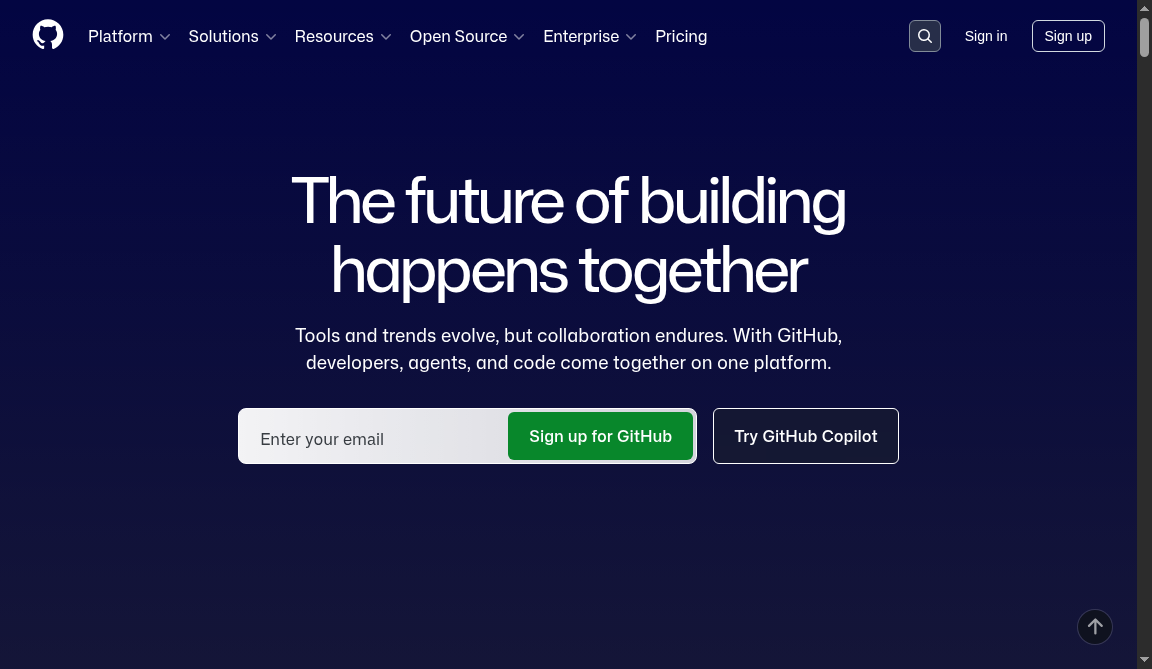
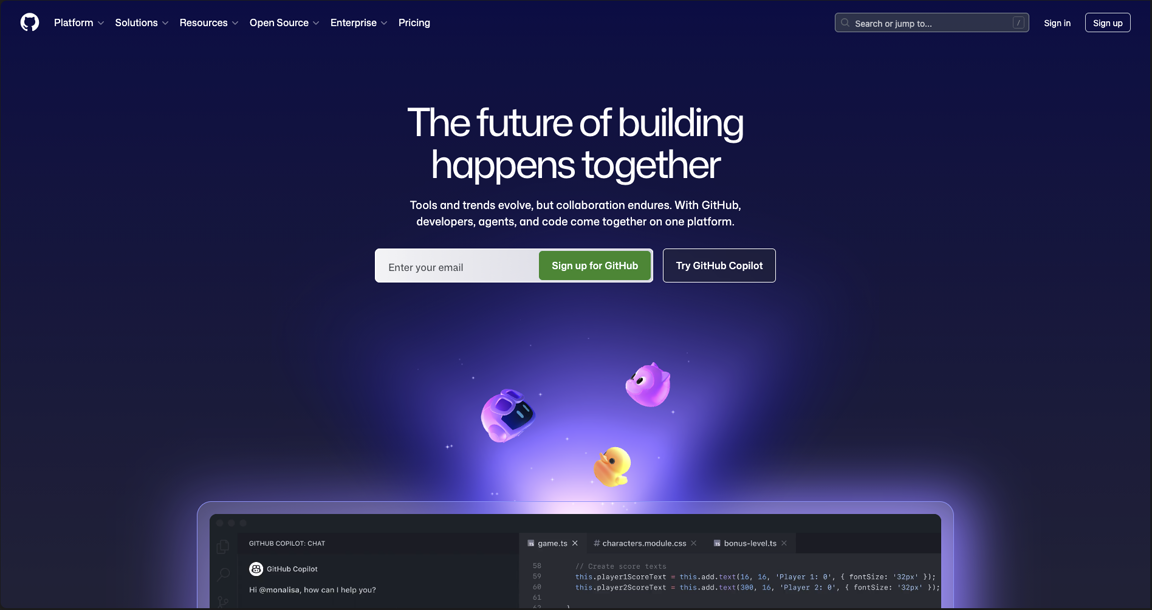
feat(web): refine hero scan demo

diff --git a/apps/web/app/globals.css b/apps/web/app/globals.css
@@ -26,12 +26,12 @@ html[data-theme="light"] .hero-pixel-blast { mix-blend-mode: multiply; opacity: 
 .theme-toggle-sun, .theme-toggle-moon { display: none; }
 html:not([data-theme="light"]) .theme-toggle-moon { display: block; }
 html[data-theme="light"] .theme-toggle-sun { display: block; }
-.hero-grid { padding-top: 88px; padding-bottom: 56px; display: grid; grid-template-columns: 1.05fr .95fr; gap: 60px; align-items: center; }
+.hero-grid { padding-top: 88px; padding-bottom: 56px; display: grid; grid-template-columns: .9fr 1.1fr; gap: 44px; align-items: center; }
 .section-label { font-family: var(--font-mono), monospace; color: var(--amber-ink); font-size: 11px; letter-spacing: .12em; text-transform: uppercase; font-weight: 600; }
 .status-dot { display: inline-block; height: 7px; width: 7px; border-radius: 50%; background: var(--amber); box-shadow: 0 0 16px var(--amber); }
 h1, h2, h3, p { margin: 0; }
 h1, h2, h3, .section-heading, .capability-intro h2, .closing h2, .benchmark-header h2, .brand, .footer-wordmark { font-family: var(--font-display), "Instrument Sans", ui-sans-serif, system-ui, sans-serif; }
-.hero h1 { max-width: 15ch; margin-top: 22px; font-size: clamp(2.9rem, 5.4vw, 4.6rem); line-height: .98; font-weight: 600; letter-spacing: -.035em; }.hero h1 span { display: block; color: var(--amber-ink); }
+.hero h1 { max-width: 15ch; margin-top: 22px; font-size: clamp(2.9rem, 4.9vw, 4.2rem); line-height: .98; font-weight: 600; letter-spacing: -.035em; }.hero h1 span { display: block; color: var(--amber-ink); }
 .hero-copy { max-width: 480px; margin-top: 28px; color: var(--ink-soft); font-size: 17px; line-height: 1.7; font-family: var(--font-body), sans-serif; font-weight: 400; }
 .hero-actions { display: flex; flex-wrap: wrap; gap: 12px; margin-top: 32px; }
 .link-glyph { flex: 0 0 auto; opacity: .92; transition: transform .2s ease, opacity .2s ease; }
@@ -45,8 +45,8 @@ h1, h2, h3, .section-heading, .capability-intro h2, .closing h2, .benchmark-head
 .capability-row:hover .capability-glyph { opacity: 1; transform: translateX(4px); }
 .capability-row-safe .capability-glyph { color: var(--teal-ink); }
 
-.scan-frame { width: 100%; overflow: hidden; background: rgba(10,13,16,.82); border: 1px solid rgba(239,237,230,.16); border-radius: calc(var(--radius) * 2); box-shadow: 0 30px 90px rgba(0,0,0,.5), 0 0 0 1px rgba(255,176,32,.06), inset 0 1px 0 rgba(255,255,255,.04); backdrop-filter: blur(14px); transform: perspective(1200px) rotateY(-1.5deg); transform-origin: center right; }
-.scan-frame-head { height: 38px; display: flex; align-items: center; gap: 7px; padding: 0 13px; border-bottom: 1px solid rgba(239,237,230,.14); color: #838E89; font-family: var(--font-mono), monospace; font-size: 10px; }
+.scan-frame { width: 100%; overflow: hidden; background: rgba(10,13,16,.82); border: 1px solid rgba(239,237,230,.16); border-radius: calc(var(--radius) * 2); box-shadow: 0 30px 90px rgba(0,0,0,.5), 0 0 120px rgba(255,176,32,.12), 0 0 0 1px rgba(255,176,32,.08), inset 0 1px 0 rgba(255,255,255,.04); backdrop-filter: blur(14px); transform: perspective(1200px) rotateY(-1.5deg); transform-origin: center right; }
+.scan-frame-head { height: 38px; display: flex; align-items: center; gap: 7px; padding: 0 13px; border-bottom: 1px solid rgba(239,237,230,.14); color: #838E89; font-family: var(--font-mono), monospace; font-size: 11px; }
 .scan-dot { width: 7px; height: 7px; border-radius: 50%; background: #3a4148; }.scan-dot:first-child { background: var(--amber); }
 .scan-frame-head p { margin-left: 8px; color: #C9CFC9; letter-spacing: .02em; }
 .scan-head-status { margin-left: auto; display: inline-flex; align-items: center; gap: 6px; color: var(--teal); font-weight: 500; text-transform: uppercase; letter-spacing: .08em; font-size: 9px; }
@@ -63,23 +63,23 @@ h1, h2, h3, .section-heading, .capability-intro h2, .closing h2, .benchmark-head
 .scan-target { position: absolute; z-index: 3; opacity: .28; transition: opacity .35s ease, filter .35s ease; pointer-events: none; }
 .scan-target-active { opacity: 1; filter: drop-shadow(0 0 10px rgba(255,176,32,.45)); }
 .scan-target-action.scan-target-active { filter: drop-shadow(0 0 12px rgba(79,216,196,.55)); }
-.scan-target-corner { position: absolute; width: 10px; height: 10px; border: 2px solid var(--amber); opacity: .85; transition: border-color .35s ease, width .35s ease, height .35s ease; }
+.scan-target-corner { position: absolute; width: 12px; height: 12px; border: 2px solid var(--amber); opacity: .85; transition: border-color .35s ease, width .35s ease, height .35s ease; }
 .scan-target-action .scan-target-corner { border-color: var(--teal); }
 .scan-target-corner-tl { top: -1px; left: -1px; border-right: 0; border-bottom: 0; }
 .scan-target-corner-tr { top: -1px; right: -1px; border-left: 0; border-bottom: 0; }
 .scan-target-corner-bl { bottom: -1px; left: -1px; border-right: 0; border-top: 0; }
 .scan-target-corner-br { bottom: -1px; right: -1px; border-left: 0; border-top: 0; }
-.scan-target-active .scan-target-corner { width: 14px; height: 14px; opacity: 1; }
-.scan-tag { position: absolute; z-index: 4; display: inline-flex; align-items: center; gap: 6px; padding: 5px 9px; border: 1px solid rgba(255,176,32,.28); border-radius: 4px; background: rgba(10,13,16,.92); color: #A8B0AA; font-family: var(--font-mono), monospace; font-size: 9px; letter-spacing: .03em; white-space: nowrap; box-shadow: 0 10px 28px rgba(0,0,0,.45); opacity: .35; transform: translateY(4px); transition: opacity .35s ease, transform .35s ease, border-color .35s ease, box-shadow .35s ease; pointer-events: none; }
+.scan-target-active .scan-target-corner { width: 16px; height: 16px; opacity: 1; }
+.scan-tag { position: absolute; z-index: 4; display: inline-flex; align-items: center; gap: 6px; padding: 6px 10px; border: 1px solid rgba(255,176,32,.28); border-radius: 4px; background: rgba(10,13,16,.92); color: #A8B0AA; font-family: var(--font-mono), monospace; font-size: 10px; letter-spacing: .03em; white-space: nowrap; box-shadow: 0 10px 28px rgba(0,0,0,.45); opacity: .35; transform: translateY(4px); transition: opacity .35s ease, transform .35s ease, border-color .35s ease, box-shadow .35s ease; pointer-events: none; }
 .scan-tag-active { opacity: 1; transform: none; border-color: rgba(255,176,32,.65); box-shadow: 0 12px 32px rgba(0,0,0,.55), 0 0 0 1px rgba(255,176,32,.12); }
 .scan-tag-action.scan-tag-active { border-color: rgba(79,216,196,.65); box-shadow: 0 12px 32px rgba(0,0,0,.55), 0 0 0 1px rgba(79,216,196,.14); }
 .scan-tag-ref { color: var(--amber); font-weight: 700; }
 .scan-tag-action .scan-tag-ref { color: var(--teal); }
 .scan-tag-role { color: #8E9892; text-transform: lowercase; }
 .scan-tag-name { color: #D5DAD4; font-style: normal; }
-.scan-cursor { position: absolute; z-index: 5; width: 14px; height: 14px; margin: -7px 0 0 -7px; border: 2px solid rgba(255,255,255,.95); border-radius: 50%; box-shadow: 0 0 0 1px rgba(0,0,0,.55), 0 0 18px rgba(255,176,32,.55); transition: top .55s cubic-bezier(.22,1,.36,1), left .55s cubic-bezier(.22,1,.36,1); pointer-events: none; }
+.scan-cursor { position: absolute; z-index: 5; width: 16px; height: 16px; margin: -8px 0 0 -8px; border: 2px solid rgba(255,255,255,.95); border-radius: 50%; box-shadow: 0 0 0 1px rgba(0,0,0,.55), 0 0 18px rgba(255,176,32,.55); transition: top .55s cubic-bezier(.22,1,.36,1), left .55s cubic-bezier(.22,1,.36,1); pointer-events: none; }
 .scan-cursor::after { content: ""; position: absolute; inset: 2px; border-radius: 50%; background: var(--amber); animation: scan-pulse 1.2s ease-in-out infinite; }
-.scan-terminal { position: relative; padding: 12px 14px 14px; border-top: 1px solid rgba(239,237,230,.12); background: linear-gradient(180deg, rgba(10,13,16,.92), rgba(8,10,12,.98)); font-family: var(--font-mono), monospace; font-size: 10px; line-height: 1.55; }
+.scan-terminal { position: relative; padding: 12px 14px 14px; border-top: 1px solid rgba(239,237,230,.12); background: linear-gradient(180deg, rgba(10,13,16,.92), rgba(8,10,12,.98)); font-family: var(--font-mono), monospace; font-size: 11px; line-height: 1.55; }
 .scan-terminal-row { display: flex; align-items: flex-start; gap: 8px; color: #9AA5A0; }
 .scan-terminal-row + .scan-terminal-row { margin-top: 4px; }
 .scan-terminal-result { color: #C7CCC4; }

diff --git a/apps/web/components/scan-frame.tsx b/apps/web/components/scan-frame.tsx
@@ -5,7 +5,7 @@ import { useEffect, useMemo, useState } from "react";
 import github from "@/public/scan-github.png";
 
 /** Viewport for the capture below — must match scan-github.png pixel size. */
-const VIEWPORT = { width: 1152, height: 669 } as const;
+const VIEWPORT = { width: 1152, height: 610 } as const;
 
 type PixelBox = { x: number; y: number; width: number; height: number };
 
@@ -26,8 +26,8 @@ const steps: InspectStep[] = [
     ref: "@e8",
     role: "link",
     name: "Pricing",
-    bounds: { x: 647, y: 16, width: 68, height: 40 },
-    tag: { top: 10.5, left: 48.5 },
+    bounds: { x: 395, y: 13, width: 40, height: 22 },
+    tag: { top: 9.5, left: 27 },
     command: "headless --session qa inspect --interactive --text",
     result: "64 elements · refs @e1–@e64",
   },
@@ -35,8 +35,8 @@ const steps: InspectStep[] = [
     ref: "@e12",
     role: "textbox",
     name: "Enter your email",
-    bounds: { x: 243, y: 416, width: 260, height: 41 },
-    tag: { top: 53.5, left: 3.5 },
+    bounds: { x: 382, y: 252, width: 152, height: 27 },
+    tag: { top: 49.5, left: 8 },
     command: 'headless --session qa fill --ref @e12 --text "you@company.com"',
     result: '✓ filled textbox "Enter your email"',
   },
@@ -44,8 +44,8 @@ const steps: InspectStep[] = [
     ref: "@e13",
     role: "button",
     name: "Sign up for GitHub",
-    bounds: { x: 508, y: 412, width: 185, height: 48 },
-    tag: { top: 71.5, left: 42 },
+    bounds: { x: 538, y: 251, width: 111, height: 30 },
+    tag: { top: 52, left: 43 },
     command: "headless --session qa click --ref @e13",
     result: '✓ clicked button "Sign up for GitHub"',
     action: true,
@@ -106,7 +106,7 @@ export function ScanFrame() {
           alt=""
           width={VIEWPORT.width}
           height={VIEWPORT.height}
-          sizes="(max-width: 980px) 100vw, 50vw"
+          sizes="(max-width: 980px) 100vw, 55vw"
           priority
           className="scan-canvas-img"
         />
